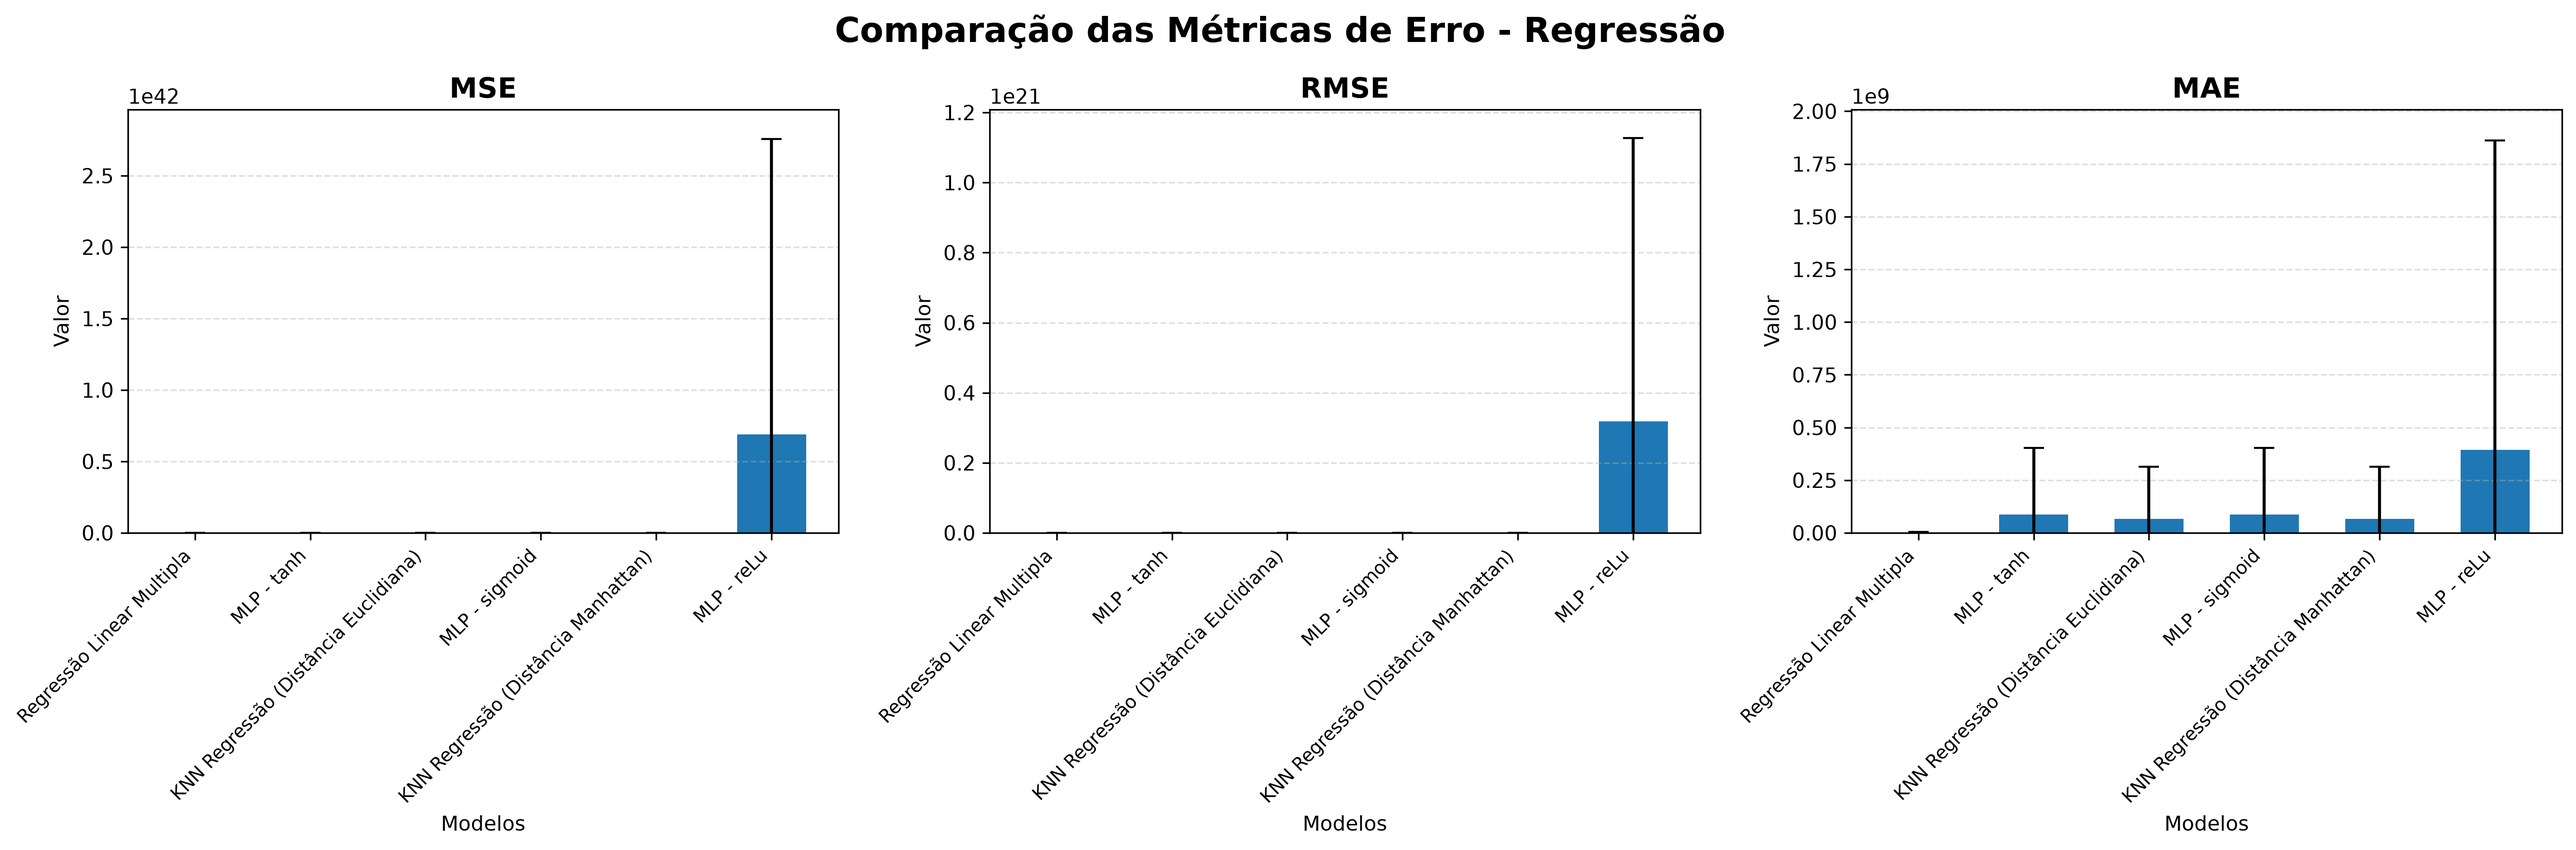
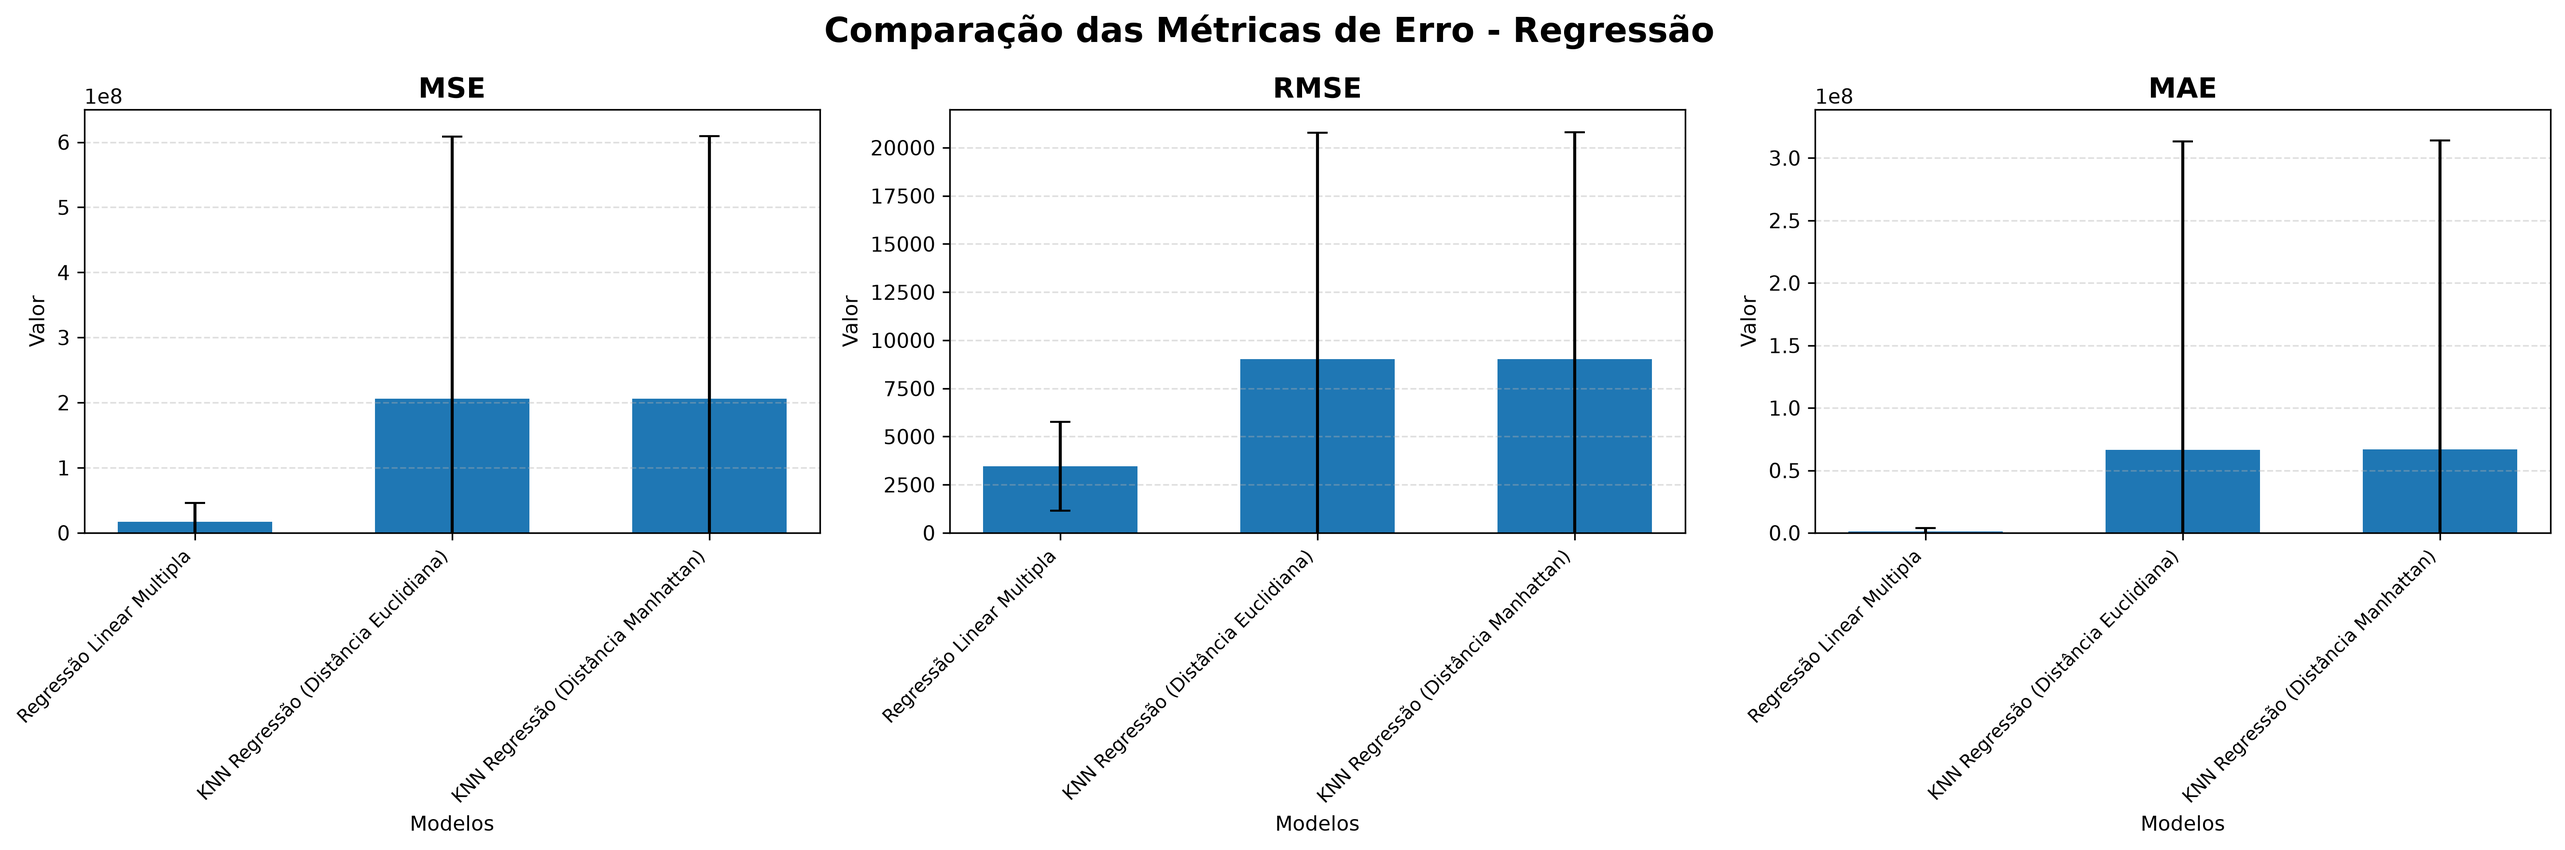
update graficos

diff --git a/grafico.py b/grafico.py
@@ -273,7 +273,7 @@ def grafico_classificacao(csv):
 # GRÁFICO DE REGRESSÃO
 # ==========================================
 
-def grafico_regressao(csv):
+def grafico_regressao(csv): 
 
     metricas = [
         "MSE",
@@ -390,6 +390,16 @@ def grafico_tempo_regressao(csv):
 def grafico_metricas_erro_regressao(csv):
 
     modelos, colunas, medias, desvios = separar_dados(csv)
+
+    # Classificadores que não devem aparecer nos gráficos
+    excluir = ["MLP - tanh", "MLP - sigmoid", "MLP - reLu"]
+
+    # Criar máscara para manter apenas os modelos desejados
+    mascara = ~np.isin(modelos, excluir)
+
+    modelos = np.array(modelos)[mascara]
+    medias = medias[mascara]
+    desvios = desvios[mascara]
 
     metricas = ["MSE", "RMSE", "MAE"]
 
